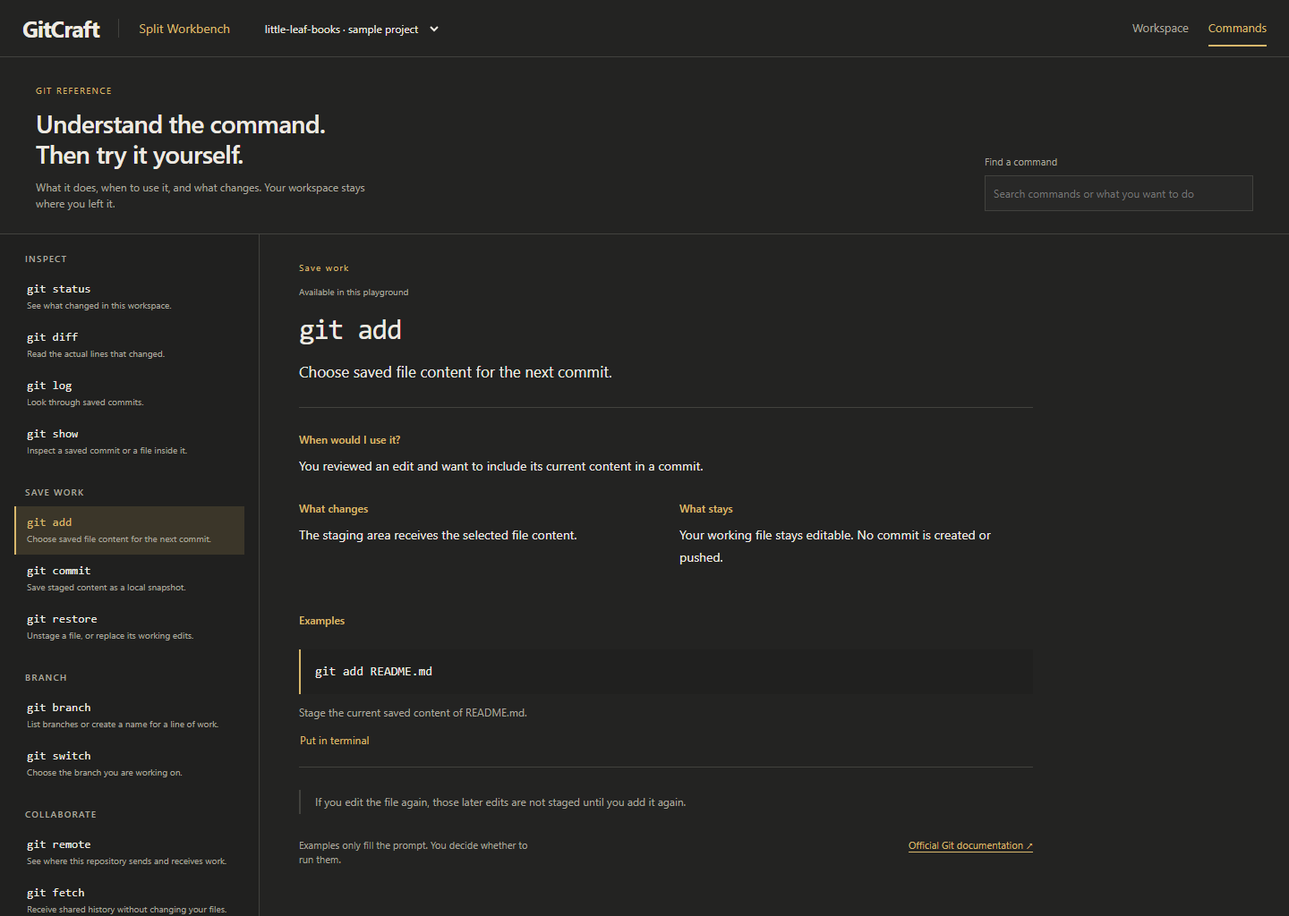
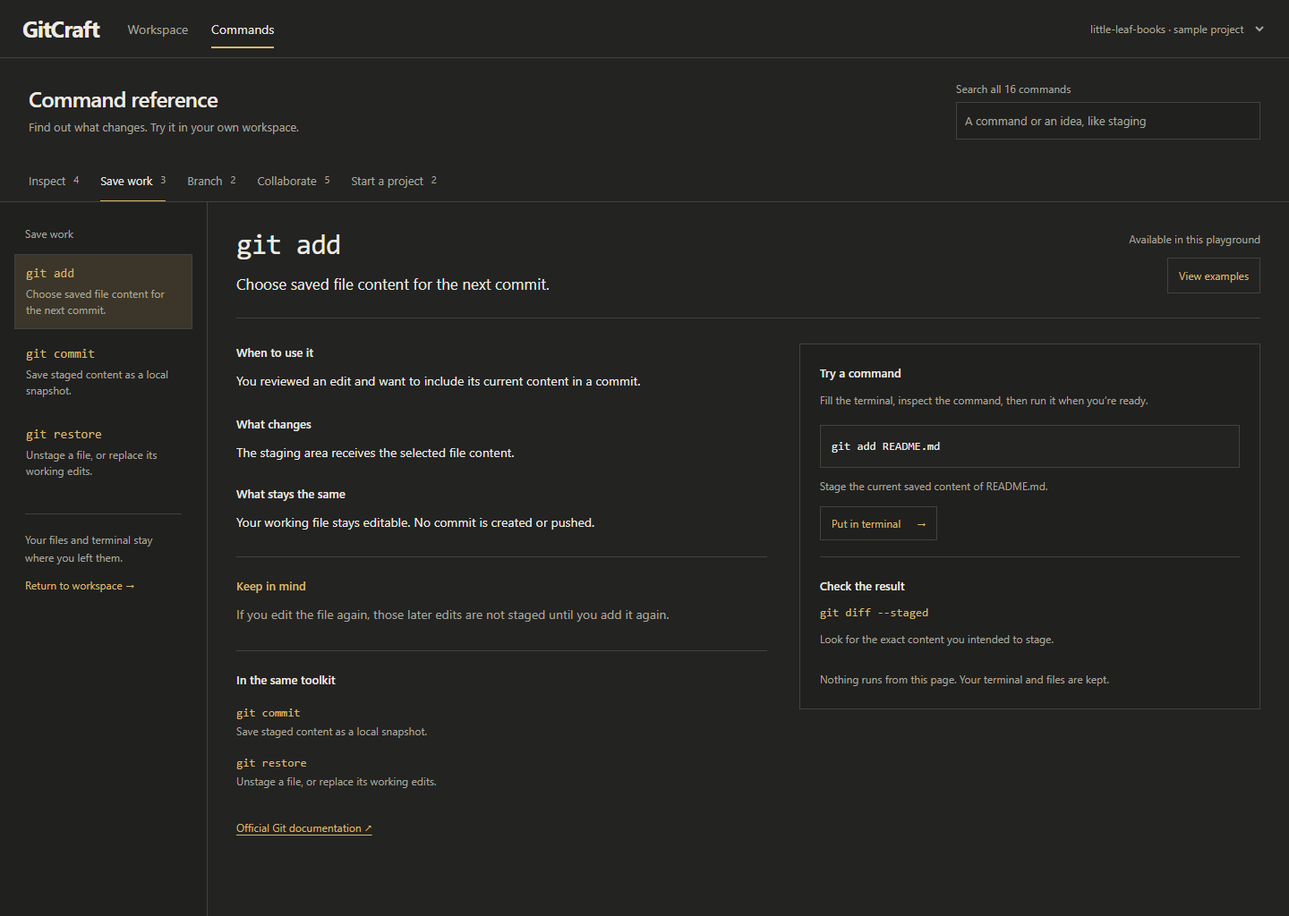
Improve command discovery and protect reference-only interactions

diff --git a/gitcraft/web/style.css b/gitcraft/web/style.css
@@ -12,7 +12,18 @@ body{margin:0;height:100dvh;overflow:hidden;display:flex;flex-direction:column;b
 #output{font-size:14px}.quick-edit button+button{margin-top:8px}
 @media(max-width:700px){.tool-rail button{font-size:10px}#output{font-size:12px}}
 @media(min-width:701px){#output{font-size:16px;line-height:1.8}#source,#line-numbers{font-size:14px;line-height:1.9}#command{font-size:15px}.file-tabs button{font-size:13px}.editor-tools button{font-size:12px}}
-/* A separate, instant command-reference view keeps learning out of the terminal. */
-.top-nav{display:flex;align-self:stretch;align-items:center;gap:22px;margin-left:auto;flex:none}.top-nav a{text-decoration:none;font-size:13px;color:var(--muted);padding:10px 0;border-bottom:2px solid transparent}.top-nav a[aria-current]{color:var(--accent);border-bottom-color:var(--accent)}.top-nav a:hover{color:var(--ink)}.commands-page{flex:1;min-height:0;overflow:hidden;display:flex;flex-direction:column}.reference-heading{display:flex;align-items:end;justify-content:space-between;gap:30px;padding:30px 40px 25px;border-bottom:1px solid var(--line);flex:none}.eyebrow{display:block;font-size:10px;letter-spacing:.13em;color:var(--accent);margin-bottom:12px}.reference-heading h1{font-size:28px;line-height:1.2;letter-spacing:-.025em;font-weight:500}.reference-heading p{font-size:12px;color:var(--muted);margin-top:12px;max-width:62ch}.command-search{display:grid;gap:7px;font-size:11px;color:var(--muted);width:300px;max-width:40%}.command-search input{font-size:12px;min-height:40px}.reference-layout{display:grid;grid-template-columns:290px minmax(0,1fr);flex:1;min-height:0}.command-list{overflow:auto;padding:20px 16px;border-right:1px solid var(--line);background:var(--canvas)}.reference-group{margin-bottom:22px}.reference-group h2{font-size:10px;text-transform:uppercase;letter-spacing:.12em;color:var(--muted);padding:0 12px;margin-bottom:8px}.reference-group a{display:block;text-decoration:none;padding:10px 12px;color:var(--ink);border-left:2px solid transparent}.reference-group a code{display:block;font:13px Consolas,monospace}.reference-group a span{display:block;font-size:10px;color:var(--muted);margin-top:4px}.reference-group a:hover{background:var(--surface)}.reference-group a[aria-current]{border-left-color:var(--accent);background:var(--soft);color:var(--accent)}.command-detail{overflow:auto;padding:30px 44px 45px;min-width:0}.command-detail>section,.reference-effects,.reference-note,.reference-bottom{max-width:820px}.reference-command-heading{position:relative;max-width:820px;padding-bottom:26px;border-bottom:1px solid var(--line);margin-bottom:26px}.reference-command-heading h2{font:32px/1.3 Consolas,monospace;letter-spacing:-.04em;margin:14px 0 12px}.reference-command-heading>p{font-size:17px;line-height:1.6;max-width:56ch}.reference-scope{display:block;font-size:10px;color:var(--muted)}.command-detail h3{font-size:12px;color:var(--accent);font-weight:600;margin-bottom:9px}.command-detail section>p{font-size:14px;line-height:1.75;color:var(--ink);max-width:65ch}.reference-effects{display:grid;grid-template-columns:1fr 1fr;gap:30px;padding:26px 0;margin:0 0 8px}.reference-examples{padding-top:15px}.reference-example{padding:15px 0;border-bottom:1px solid var(--line)}.reference-example pre{font:14px/1.7 Consolas,monospace;background:var(--canvas);padding:13px 16px;margin:0 0 10px;overflow:auto;border-left:2px solid var(--accent)}.reference-example p{font-size:12px;color:var(--muted);line-height:1.7;max-width:65ch}.reference-example button{margin-top:5px;padding-left:0;color:var(--accent)}.reference-note{font-size:12px;line-height:1.75;border-left:2px solid var(--line);padding:3px 0 3px 16px;color:var(--muted);margin-top:25px}.reference-bottom{margin-top:27px;display:flex;align-items:start;justify-content:space-between;gap:24px;font-size:11px;color:var(--muted)}.reference-bottom p{max-width:44ch}.reference-bottom a{white-space:nowrap}.reference-empty{font-size:12px;padding:12px;color:var(--muted)}.console-heading .command-timing{font:10px Consolas,monospace;color:var(--muted);white-space:nowrap;margin-left:auto}.console-heading #close-console{margin-left:0}
-@media(max-width:1100px){.console-heading .command-timing{display:block}.reference-heading{padding:25px}.reference-layout{grid-template-columns:240px minmax(0,1fr)}.command-detail{padding:25px}.reference-bottom{display:block}.reference-bottom a{display:block;margin-top:15px}.reference-effects{gap:20px}.top-nav{gap:15px}}
-@media(max-width:700px){.app-header{flex-wrap:wrap}.top-nav{width:100%;gap:23px;margin-left:0;border-top:1px solid var(--line);padding-top:4px}.top-nav a{font-size:12px;padding:5px 0}.reference-heading{padding:18px 16px;display:block}.reference-heading h1{font-size:22px}.reference-heading h1 br{display:none}.reference-heading p{font-size:11px;margin-top:8px}.command-search{max-width:100%;width:100%;margin-top:16px}.command-search input{font-size:11px;min-height:36px}.reference-heading .eyebrow{font-size:9px;margin-bottom:8px}.reference-layout{grid-template-columns:112px minmax(0,1fr)}.command-list{padding:17px 5px}.reference-group a{padding:9px 6px}.reference-group h2{font-size:8px;padding-inline:6px;letter-spacing:.02em}.reference-group a code{font-size:11px}.reference-group a span{display:none}.reference-group{margin-bottom:17px}.command-detail{padding:20px 14px 35px}.reference-command-heading{margin-bottom:20px;padding-bottom:19px}.reference-command-heading h2{font-size:25px;margin-block:10px}.reference-command-heading>p{font-size:14px}.reference-scope{font-size:9px}.command-detail section>p{font-size:12px}.reference-effects{grid-template-columns:1fr;gap:20px;padding-block:22px}.command-detail h3{font-size:11px}.reference-example pre{font-size:11px;padding:10px}.reference-example p,.reference-note{font-size:11px}.reference-bottom{font-size:10px}.reference-bottom a{white-space:normal}.reference-example button{font-size:10px}.console-heading .command-timing{font-size:9px}.console-heading{flex-wrap:wrap}.console-heading h2{margin-right:auto}.console-heading .command-timing{margin-left:0}}
+/* Product navigation stays in the same place across workspace and reference. */
+.app-header{gap:32px}.brand{border:0;padding-right:0}.top-nav{display:flex;align-self:stretch;align-items:center;gap:26px;flex:none}.top-nav a{position:relative;display:flex;align-items:center;align-self:stretch;min-height:44px;text-decoration:none;font-size:14px;color:var(--muted);transition:color 140ms ease}.top-nav a::after{content:'';position:absolute;bottom:0;left:0;right:0;height:2px;background:var(--accent);transform:scaleX(0);transition:transform 160ms ease}.top-nav a[aria-current]{color:var(--ink)}.top-nav a[aria-current]::after{transform:scaleX(1)}.top-nav a:hover{color:var(--ink)}.project-picker{margin-left:auto}.project-picker select{color:var(--muted)}
+.commands-page{flex:1;min-height:0;overflow:hidden;display:flex;flex-direction:column}.reference-heading{display:flex;align-items:center;justify-content:space-between;gap:24px;padding:25px 32px 23px;flex:none}.reference-heading h1{font-size:24px;line-height:1.3;letter-spacing:-.025em;font-weight:600}.reference-heading p{font-size:13px;color:var(--muted);margin-top:6px}.command-search{display:grid;gap:6px;font-size:12px;color:var(--muted);width:340px;max-width:45%}.command-search input{font-size:13px;min-height:42px;width:100%;background:var(--canvas)}
+.command-groups{display:flex;gap:24px;padding:0 32px;border-bottom:1px solid var(--line);flex:none;flex-wrap:wrap}.command-groups a{display:flex;gap:9px;align-items:center;min-height:46px;font-size:13px;text-decoration:none;color:var(--muted);border-bottom:1px solid transparent;transition:background 140ms ease,color 140ms ease}.command-groups a span{font-size:11px;color:var(--muted)}.command-groups a[aria-current]{border-bottom-color:var(--accent);color:var(--accent)}.command-groups a:hover{color:var(--ink)}
+.reference-layout{display:grid;grid-template-columns:232px minmax(0,1fr);flex:1;min-height:0}.command-sidebar{min-height:0;overflow:auto;padding:26px 16px;background:var(--canvas);border-right:1px solid var(--line)}#command-list-label{font-size:12px;color:var(--muted);padding:0 12px 14px}.command-list{display:grid;gap:6px}.command-list a{display:block;text-decoration:none;padding:12px;border:1px solid transparent;transition:background 140ms ease,border-color 140ms ease}.command-list a code{display:block;font:14px Consolas,monospace}.command-list a span{display:block;font-size:12px;color:var(--muted);line-height:1.5;margin-top:5px}.command-list a:hover{background:var(--surface)}.command-list a[aria-current]{border-color:var(--line);background:var(--soft);color:var(--accent)}.reference-return{border-top:1px solid var(--line);margin:26px 12px 0;padding-top:18px;font-size:12px;line-height:1.7;color:var(--muted)}.reference-return a{display:block;margin-top:10px;text-decoration:none}.reference-empty{padding:12px;font-size:13px;color:var(--muted)}
+.command-detail{overflow:auto;min-width:0;padding:28px 32px 40px;display:grid;grid-template-columns:minmax(0,1.15fr) minmax(290px,1fr);gap:28px 36px;align-content:start}.reference-command-heading{grid-column:1/-1;display:flex;align-items:start;gap:24px;justify-content:space-between;padding-bottom:24px;border-bottom:1px solid var(--line)}.reference-command-heading h2{font:32px/1.25 Consolas,monospace;letter-spacing:-.03em;margin:0 0 10px}.reference-command-heading p{font-size:17px;line-height:1.6;max-width:65ch}.reference-scope{flex:none;display:block;font-size:11px;padding:5px 9px;border:1px solid var(--line);color:var(--accent);margin-top:4px}.reference-only{color:var(--muted)}.reference-understand,.reference-practice{min-width:0}.command-detail h3{font-size:13px;font-weight:600;margin:0 0 10px}.command-detail section>p,.reference-note p{font-size:14px;line-height:1.75;max-width:65ch}.reference-effects{display:grid;gap:24px;margin-top:26px}.reference-note{padding-top:22px;margin-top:26px;border-top:1px solid var(--line);color:var(--muted)}.reference-note h3{color:var(--accent)}.reference-related{margin-top:28px;padding-top:22px;border-top:1px solid var(--line)}.reference-related a{display:block;text-decoration:none;font:13px Consolas,monospace;padding:9px 0}.reference-related a span{display:block;font:12px/1.6 'Segoe UI',system-ui,sans-serif;color:var(--muted);margin-top:4px}.reference-docs{display:inline-block;font-size:12px;margin-top:24px}.reference-practice{background:var(--canvas);padding:22px;align-self:start;border:1px solid var(--line)}.command-detail .reference-instruction{font-size:12px;line-height:1.7;color:var(--muted)}.reference-example{padding:18px 0;border-bottom:1px solid var(--line)}.reference-example pre{font:13px/1.7 Consolas,monospace;background:var(--bg);padding:12px;margin:0 0 10px;overflow:auto;border:1px solid var(--line)}.reference-example p{font-size:12px;color:var(--muted);line-height:1.7}.reference-example button{font-size:12px;margin-top:12px;min-height:38px;color:var(--accent);display:flex;gap:18px;align-items:center}.reference-check{padding-top:22px}.reference-check>code{display:block;font:13px/1.7 Consolas,monospace;color:var(--accent);overflow-wrap:anywhere;margin-bottom:8px}.command-detail .reference-check>p{font-size:12px;color:var(--muted);margin-top:8px}.reference-check .reference-instruction{padding-top:16px}.console-heading .command-timing{font:10px Consolas,monospace;color:var(--muted);white-space:nowrap;margin-left:auto}.console-heading #close-console{margin-left:0}
+@keyframes reference-enter{from{opacity:.65;transform:translateY(4px)}to{opacity:1;transform:translateY(0)}}.reference-command-heading,.reference-understand,.reference-practice{animation:reference-enter 180ms ease-out}button,a,input,select{transition:background-color 140ms ease,color 140ms ease,border-color 140ms ease}a:focus-visible{outline:2px solid var(--focus);outline-offset:3px}
+@media(max-width:1100px){.app-header{gap:24px}.reference-heading{padding:22px 24px}.command-groups{padding-inline:24px;gap:22px}.reference-layout{grid-template-columns:204px minmax(0,1fr)}.command-detail{padding:24px;gap:24px;grid-template-columns:minmax(0,1fr)}.reference-command-heading{grid-column:1}.reference-effects{grid-template-columns:1fr 1fr}.reference-command-heading p{font-size:16px}.console-heading .command-timing{display:block}}
+@media(max-width:700px){.app-header{flex-wrap:wrap;gap:0 24px;padding:0 16px}.brand{font-size:21px}.top-nav{gap:20px;min-height:54px;margin-left:auto}.top-nav a{font-size:13px}.project-picker{flex-basis:100%;margin-left:0;border-top:1px solid var(--line);padding:5px 0}.project-picker select{font-size:11px;width:auto;max-width:100%;min-height:28px}.commands-page{overflow:auto;display:block}.reference-heading{padding:22px 16px 16px;display:block}.reference-heading h1{font-size:22px}.reference-heading p{font-size:12px}.command-search{width:100%;max-width:100%;margin-top:18px}.command-groups{padding-inline:16px;gap:0 18px}.command-groups a{font-size:12px;min-height:44px;gap:5px}.reference-layout{display:block}.command-sidebar{border-right:0;border-bottom:1px solid var(--line);padding:16px;overflow:visible}#command-list-label{padding:0 0 10px}.command-list{display:flex;flex-wrap:wrap;gap:7px}.command-list a{padding:9px 11px;min-height:40px;border-color:var(--line)}.command-list a code{font-size:12px}.command-list a span,.reference-return{display:none}.reference-empty{padding:0}.command-detail{overflow:visible;display:flex;flex-direction:column;padding:24px 16px 32px;gap:24px}.reference-command-heading{display:block;order:0;padding-bottom:20px}.reference-command-heading h2{font-size:29px}.reference-command-heading p{font-size:16px}.reference-scope{display:inline-block;margin-top:15px}.reference-practice{order:2;width:100%;padding:18px}.reference-understand{order:1}.reference-effects{grid-template-columns:1fr;gap:22px}.command-detail section>p,.reference-note p{font-size:14px}.reference-example button{min-height:44px}.console-heading .command-timing{font-size:9px}.console-heading{flex-wrap:wrap}.console-heading h2{margin-right:auto}.console-heading .command-timing{margin-left:0}}
+@media(prefers-reduced-motion:reduce){*,*::after{animation:none!important;transition:none!important}}
+
+/* Council review: descriptive availability, real example navigation, stable reading order. */
+input::placeholder,textarea::placeholder{color:var(--muted);opacity:1}
+.reference-heading-actions{display:flex;flex-direction:column;align-items:flex-end;gap:12px;flex:none}.reference-heading-actions .reference-scope{padding:0;border:0;color:var(--muted);font-size:12px}.reference-heading-actions button{font-size:12px;min-height:40px;color:var(--accent)}.reference-search-note{padding:12px 32px;font-size:12px;color:var(--muted);border-bottom:1px solid var(--line);background:var(--canvas)}#reference-examples-heading{scroll-margin-top:20px}#reference-examples-heading:focus-visible{outline:2px solid var(--focus);outline-offset:5px}
+@media(max-width:700px){.reference-heading-actions{align-items:flex-start;margin-top:14px;gap:10px}.reference-heading-actions .reference-scope{margin-top:0}.reference-heading-actions button{min-height:44px}.reference-search-note{padding:12px 16px}}

diff --git a/gitcraft/web/app.js b/gitcraft/web/app.js
@@ -248,19 +248,47 @@ $('flow').addEventListener('click',event=>{if(event.target.closest('[data-flow]'
 $('project').addEventListener('change',async()=>{const result=await api('/api/switch',{mission:$('project').value});if(result){actor='you';snapshot=null;version='working';closeInspector();closeActionPanel();render();feedback('You opened another project. The previous project’s saved work is kept in this running session.');}else $('project').value=state.mission;});
 $('fullscreen').addEventListener('click',async()=>{try{if(document.fullscreenElement)await document.exitFullscreen();else await document.documentElement.requestFullscreen();}catch{feedback('The playground already fills this browser view. Your browser may not support entering full-screen mode here.');}});
 document.addEventListener('fullscreenchange',()=>{$('fullscreen').textContent=document.fullscreenElement?'Exit full screen':'Full screen';});
-document.addEventListener('keydown',event=>{if((event.ctrlKey||event.metaKey)&&event.key.toLowerCase()==='s'){event.preventDefault();if(!busy&&!view().bare&&!snapshot&&version==='working'&&hasDraft())saveContent($('source').value);}if(event.key==='Escape'){$('help-panel').hidden=true;$('help-toggle').setAttribute('aria-expanded','false');closeActionPanel();$('workspace').classList.remove('files-open');$('files-toggle').setAttribute('aria-expanded','false');}});
+document.addEventListener('keydown',event=>{if((event.ctrlKey||event.metaKey)&&event.key.toLowerCase()==='s'){event.preventDefault();if(!$('workspace').hidden&&state&&!busy&&!view().bare&&!snapshot&&version==='working'&&hasDraft())saveContent($('source').value);}if(event.key==='Escape'){$('help-panel').hidden=true;$('help-toggle').setAttribute('aria-expanded','false');closeActionPanel();$('workspace').classList.remove('files-open');$('files-toggle').setAttribute('aria-expanded','false');}});
 window.addEventListener('resize',()=>{if(state&&!$('history-panel').hidden)renderGraph();});
-function renderReference(){
+const referenceChecks={
+ status:['git diff','Read the changed lines behind the file names.'],
+ diff:['git diff --staged','Check staging separately before committing.'],
+ log:['git show HEAD','Inspect the latest commit in detail.'],
+ show:['git log --oneline','Find another commit to inspect.'],
+ add:['git diff --staged','Look for the exact content you intended to stage.'],
+ commit:['git log --oneline','Look for your message at the top of local history.'],
+ restore:['git status','Check which edits are still staged or unstaged.'],
+ branch:['git branch','The asterisk marks your current branch.'],
+ switch:['git status','Check the branch name before making another edit.'],
+ remote:['git remote -v','Inspect where this workspace sends and receives work.'],
+ fetch:['git log --oneline --graph --all','Compare local and remote-tracking branch labels.'],
+ merge:['git status','Check for a completed merge or files needing resolution.'],
+ push:['git status','Check local tracking information, then inspect Shared separately.'],
+ init:['git status','Confirm that Git recognizes the folder as a repository.'],
+ clone:['git status','Run this inside the cloned folder.'],
+ pull:['git status','Check the branch and any remaining work after integration.']
+};
+function renderReference({detail=true}={}){
  const selected=location.hash.split('/')[2]||'status';
  const entry=commandCatalog.find(command=>command.id===selected)||commandCatalog[0];
  const query=$('command-search').value.trim().toLowerCase();
- const matches=commandCatalog.filter(command=>{const text=[command.name,command.group,command.summary,command.when,command.changes,command.stays,command.note,...command.examples.flat()].join(' ').toLowerCase();return query.split(/\s+/).every(word=>text.includes(word));});
- const groups=[...new Set(matches.map(command=>command.group))];
- $('command-list').innerHTML=groups.map(group=>`<div class="reference-group"><h2>${esc(group)}</h2>${matches.filter(command=>command.group===group).map(command=>`<a href="#/commands/${command.id}" ${command.id===entry.id?'aria-current="page"':''}><code>${esc(command.name)}</code><span>${esc(command.summary)}</span></a>`).join('')}</div>`).join('')||'<p class="reference-empty" role="status">No matching commands. Try “stage”, “branch” or “share”.</p>';
- $('command-detail').innerHTML=`<div class="reference-command-heading"><span class="eyebrow">${esc(entry.group)}</span><span class="reference-scope">${entry.referenceOnly?'Real Git · reference only':'Available in this playground'}</span><h2 tabindex="-1">${esc(entry.name)}</h2><p>${esc(entry.summary)}</p></div><section><h3>When would I use it?</h3><p>${esc(entry.when)}</p></section><div class="reference-effects"><section><h3>What changes</h3><p>${esc(entry.changes)}</p></section><section><h3>What stays</h3><p>${esc(entry.stays)}</p></section></div><section class="reference-examples"><h3>Examples</h3>${entry.examples.map(([code,text],index)=>`<div class="reference-example"><pre><code>${esc(code)}</code></pre><p>${esc(text)}</p>${!entry.referenceOnly?`<button class="text-button" data-reference-example="${index}">Put in terminal</button>`:''}</div>`).join('')}</section>${entry.note?`<aside class="reference-note">${esc(entry.note)}</aside>`:''}<div class="reference-bottom"><p>${entry.referenceOnly?'The practice repositories are already set up. This command is explained here for your work with ordinary Git.':'Examples only fill the prompt. You decide whether to run them.'}</p><a href="${entry.docs}" target="_blank" rel="noopener noreferrer">Official Git documentation ↗</a></div>`;
+ const allGroups=[...new Set(commandCatalog.map(command=>command.group))];
+ $('command-groups').innerHTML=allGroups.map(group=>{const first=commandCatalog.find(command=>command.group===group);return `<a href="#/commands/${first.id}" ${!query&&group===entry.group?'aria-current="true"':''}>${esc(group)}<span>${commandCatalog.filter(command=>command.group===group).length}</span></a>`;}).join('');
+ const matches=commandCatalog.filter(command=>{if(!query)return command.group===entry.group;const text=[command.name,command.group,command.summary,command.when,command.changes,command.stays,command.note,...command.examples.flat()].join(' ').toLowerCase();return query.split(/\s+/).every(word=>text.includes(word));});
+ $('command-list-label').textContent=query?`${matches.length} ${matches.length===1?'match':'matches'}. Choose a command to read.`:entry.group;
+ $('reference-search-note').hidden=!query;
+ $('reference-search-note').textContent=query?`Showing ${entry.name} below. Choose a search result to open a different command.`:'';
+ $('command-list').innerHTML=matches.map(command=>`<a href="#/commands/${command.id}" ${command.id===entry.id?'aria-current="page"':''}><code>${esc(command.name)}</code><span>${esc(command.summary)}</span></a>`).join('')||'<p class="reference-empty" role="status">No matching commands. Try “stage”, “branch” or “share”.</p><button id="clear-command-search">Clear search</button>';
+ $('clear-command-search')?.addEventListener('click',()=>{$('command-search').value='';renderReference();$('command-search').focus();});
+ if(!detail&&$('command-detail').hasChildNodes())return;
+ const check=referenceChecks[entry.id];
+ const related=commandCatalog.filter(command=>command.group===entry.group&&command.id!==entry.id);
+ $('command-detail').innerHTML=`<header class="reference-command-heading"><div><h2 tabindex="-1">${esc(entry.name)}</h2><p>${esc(entry.summary)}</p></div><div class="reference-heading-actions"><span class="reference-scope">${entry.referenceOnly?'Reference only · outside this playground':'Available in this playground'}</span><button id="reference-examples-jump">${entry.referenceOnly?'View syntax':'View examples'}</button></div></header><div class="reference-understand"><section><h3>When to use it</h3><p>${esc(entry.when)}</p></section><div class="reference-effects"><section><h3>What changes</h3><p>${esc(entry.changes)}</p></section><section><h3>What stays the same</h3><p>${esc(entry.stays)}</p></section></div>${entry.note?`<aside class="reference-note"><h3>Keep in mind</h3><p>${esc(entry.note)}</p></aside>`:''}<section class="reference-related"><h3>In the same toolkit</h3>${related.map(command=>`<a href="#/commands/${command.id}">${esc(command.name)}<span>${esc(command.summary)}</span></a>`).join('')}</section><a class="reference-docs" href="${entry.docs}" target="_blank" rel="noopener noreferrer">Official Git documentation ↗</a></div><div class="reference-practice"><section class="reference-examples"><h3 id="reference-examples-heading" tabindex="-1">${entry.referenceOnly?'Syntax for real Git':'Try a command'}</h3><p class="reference-instruction">${entry.referenceOnly?'Read here; use this in an ordinary Git repository.':'Fill the terminal, inspect the command, then run it when you’re ready.'}</p>${entry.examples.map(([code,text],index)=>`<div class="reference-example"><pre><code>${esc(code)}</code></pre><p>${esc(text)}</p>${!entry.referenceOnly?`<button data-reference-example="${index}">Put in terminal <span aria-hidden="true">→</span></button>`:''}</div>`).join('')}</section><section class="reference-check"><h3>Check the result</h3><code>${esc(check[0])}</code><p>${esc(check[1])}</p><p class="reference-instruction">${entry.referenceOnly?'The practice repositories are already set up. This command is reference-only here.':'Nothing runs from this page. Your terminal and files are kept.'}</p></section></div>`;
+ $('reference-examples-jump').addEventListener('click',()=>{$('reference-examples-heading').focus({preventScroll:true});$('reference-examples-heading').scrollIntoView({block:'start'});});
  document.querySelectorAll('[data-reference-example]').forEach(button=>{button.disabled=!state||busy||view().bare;button.addEventListener('click',()=>{const code=entry.examples[Number(button.dataset.referenceExample)][0];location.hash='/workspace';suggestCommand(code);});});
  if(state&&view().bare&&!entry.referenceOnly)$('command-detail').insertAdjacentHTML('beforeend','<p class="reference-note">Choose Your workspace or Sam’s workspace before trying a command. Shared has no working folder.</p>');
 }
+$('command-groups').addEventListener('click',event=>{if(event.target.closest('a')){$('command-search').value='';renderReference();}});
 function showPage(focus=false){
  const reference=location.hash.startsWith('#/commands');
  if(reference)closeActionPanel();
@@ -270,8 +298,10 @@ function showPage(focus=false){
  if(reference){$('guide-toggle').setAttribute('aria-current','page');renderReference();if(focus)$('command-detail').querySelector('h2').focus();}
  else{$('nav-workspace').setAttribute('aria-current','page');if(focus&&state)$('command').focus();}
  document.title=reference?'GitCraft | Commands':'GitCraft | Split Workbench';
+ document.querySelector('.skip').textContent=reference?'Skip to command explanation':'Skip to the terminal';
 }
-$('command-search').addEventListener('input',renderReference);
+document.querySelector('.skip').addEventListener('click',event=>{event.preventDefault();(location.hash.startsWith('#/commands')?$('command-detail').querySelector('h2'):$('command')).focus();});
+$('command-search').addEventListener('input',()=>renderReference({detail:false}));
 window.addEventListener('hashchange',()=>showPage(true));
 showPage();
 const initial=await api('/api/state');

diff --git a/gitcraft/web/index.html b/gitcraft/web/index.html
@@ -3,7 +3,7 @@
 <head><meta charset="utf-8"><meta name="viewport" content="width=device-width,initial-scale=1"><title>GitCraft | Project workspace</title><link rel="stylesheet" href="/style.css"><script type="module" src="/app.js"></script></head>
 <body>
  <a class="skip" href="#command">Skip to the terminal</a>
- <header class="app-header"><a class="brand" href="/">GitCraft<span>Split Workbench</span></a><label class="project-picker"><span class="sr-only">Project</span><select id="project"><option value="playground">little-leaf-books · sample project</option></select></label><nav class="top-nav" aria-label="Main navigation"><a id="nav-workspace" href="#/workspace" aria-current="page">Workspace</a><a id="guide-toggle" href="#/commands">Commands</a></nav></header>
+ <header class="app-header"><a class="brand" href="#/workspace" aria-label="GitCraft workspace">GitCraft</a><nav class="top-nav" aria-label="Main navigation"><a id="nav-workspace" href="#/workspace" aria-current="page">Workspace</a><a id="guide-toggle" href="#/commands">Commands</a></nav><label class="project-picker"><span class="sr-only">Project</span><select id="project"><option value="playground">little-leaf-books · sample project</option></select></label></header>
  <div class="workspace-bar"><div id="actors" role="group" aria-label="Active workspace"><button data-actor="you" aria-pressed="true">Your workspace</button><button data-actor="sam" aria-pressed="false">Sam’s workspace</button><button data-actor="origin" aria-pressed="false">Shared</button></div><span id="workspace-note">Your files. Your changes.</span></div>
  <main id="workspace" aria-busy="true">
 <nav class="tool-rail" aria-label="Workspace tools"><span class="rail-label">WORKSPACE</span><button id="files-toggle" aria-expanded="false">Files</button><button id="undo" disabled>Undo</button><button id="history-toggle" aria-expanded="false">History</button><button id="help-toggle" aria-expanded="false">Help</button><button id="fullscreen">Full screen</button><span class="rail-label">GIT TOOLS</span><button id="new-branch">New branch</button><button id="share-toggle" aria-expanded="false">Exchange</button><span class="rail-foot">Local practice<br>Nothing runs for you.</span></nav>
@@ -24,8 +24,10 @@ This runs real Git in your local practice repository. Nothing runs until you sub
  <div class="project-actions"><label><span class="sr-only">Current branch</span><select id="branch"></select></label><span>Work locally. Share when you choose.</span></div><div id="action-panel" class="action-panel workspace-action" hidden></div>
 
  <main id="commands-page" class="commands-page" aria-labelledby="commands-heading" hidden>
-  <div class="reference-heading"><div><span class="eyebrow">GIT REFERENCE</span><h1 id="commands-heading" tabindex="-1">Understand the command.<br> Then try it yourself.</h1><p>What it does, when to use it, and what changes. Your workspace stays where you left it.</p></div><label class="command-search"><span>Find a command</span><input id="command-search" type="search" placeholder="Search commands or what you want to do" autocomplete="off"></label></div>
-  <div class="reference-layout"><nav id="command-list" class="command-list" aria-label="Git command reference"></nav><article id="command-detail" class="command-detail"></article></div>
+  <div class="reference-heading"><div><h1 id="commands-heading" tabindex="-1">Command reference</h1><p>Find out what changes. Try it in your own workspace.</p></div><label class="command-search"><span>Search all 16 commands</span><input id="command-search" type="search" placeholder="A command or an idea, like staging" autocomplete="off"></label></div>
+  <nav id="command-groups" class="command-groups" aria-label="Browse commands by purpose"></nav>
+  <p id="reference-search-note" class="reference-search-note" hidden></p>
+  <div class="reference-layout"><aside class="command-sidebar"><p id="command-list-label" role="status" aria-live="polite" aria-atomic="true"></p><nav id="command-list" class="command-list" aria-labelledby="command-list-label"></nav><p class="reference-return">Your files and terminal stay where you left them.<a href="#/workspace">Return to workspace →</a></p></aside><article id="command-detail" class="command-detail"></article></div>
  </main>
  <footer class="status-bar"><div id="feedback" role="status" aria-live="polite">Open a file and make it your own. Type git status to inspect this repository.</div><button id="console-toggle" class="text-button">Focus terminal</button></footer>
 </body>

diff --git a/DESIGN_REVIEW.md b/DESIGN_REVIEW.md
@@ -35,3 +35,31 @@ Implemented the user-selected side-by-side format with a tools sidebar and thin 
 
 ## Commands reference
 Commands now opens a dedicated page from the top navigation. The page explains 16 commands, supports purpose-based search, links official documentation and offers explicit prompt-only examples for commands supported by the playground. Route changes stay client-side and keep drafts and transcript. Browser verification passed in an isolated headless instance without touching Brave; see design-qa.md for checks and screenshots.
+
+## Design-skill research and council — 3 November 2026
+
+Decision: retain the revised global navigation, purpose groups, contextual command list, desktop explanation/practice split and selected theme. Revise concrete interaction defects. Use frontend-standards as coordinator, Impeccable for product refinement, product-design-quality for context and rendered verification, and Vercel Web Interface Guidelines for checks. Do not activate or globally install another skill for this task.
+
+Criteria were set before proposals: beginner task clarity; accessibility/navigation; native Git truth and preservation; compatibility with the vanilla buildless stack; incremental capability versus overlap; update safety/maintenance; effort. Three fresh independent planner contexts reviewed the same brief read-only, followed by one round of anonymized peer review. All used the inherited model; no model diversity or guaranteed blindness is claimed.
+
+| Candidate | Current source versus installed | Decision for GitCraft |
+| --- | --- | --- |
+| [Impeccable](https://github.com/pbakaus/impeccable/blob/9fadc41729c38fd47d7ae622b501558653f9d2e9/.agents/skills/impeccable/SKILL.md) | Upstream 4.8.0; installed 4.5.0. Current language strengthens Operate/Read restraint; installed already provides those modes and brief precedence. | Best existing primary design workflow. No specific missing capability established by updating. |
+| [Taste](https://github.com/Leonxlnx/taste-skill/blob/12af471f627f866411b4bd785b19646d3672784c/skills/taste-skill/SKILL.md) | Installed payload excludes product UI. Upstream now has a separate [app-screen workflow](https://github.com/Leonxlnx/taste-skill/blob/12af471f627f866411b4bd785b19646d3672784c/skills/taste-skill/references/app-screens.md), style selection and browser inspector. | Meaningful scope expansion, but overlaps existing guidance. Its author-reported desktop studies do not establish beginner/mobile Git usability. No update activated. |
+| [Anthropic frontend-design](https://github.com/anthropics/skills/blob/ca45fc496a3436251f191354091d557da31c15b5/skills/frontend-design/SKILL.md) | Not installed separately; current source emphasizes intentional brief-specific visual choices and purposeful motion. | Useful alternative; no uncovered capability beyond the installed product workflow. |
+| [Vercel Web Interface Guidelines](https://github.com/vercel-labs/web-interface-guidelines/blob/main/command.md) | Installed 1.0.0 wrapper deliberately fetches the latest checklist. Fresh rules read for this review. | Use the installed wrapper for semantics, focus, forms, motion and overflow. React-specific skills do not fit this vanilla app. |
+| [UI UX Pro Max](https://github.com/nextlevelbuilder/ui-ux-pro-max-skill) | Not installed. Searchable local UX/style/stack guidance and Python tooling. | A broader research catalog is not this build's demonstrated gap. Avoid additional overlapping guidance and tooling maintenance. |
+
+This is a fit comparison, not a universal ranking or controlled benchmark of skill quality. Repository stars and catalog size were not decision criteria. Exact Impeccable and Taste revisions above were downloaded with the system skill-installer into ignored artifacts/skill-review staging folders. Installed/global skills and hooks were untouched; staged scripts were not executed. The review found broad reference/script changes, so these are not silently promoted as safe or beneficial upgrades.
+
+Proposal A emphasized availability copy, mobile content order, tablet order and search announcements. B prioritized the hidden-route save bug, a real examples control and search semantics. C emphasized mobile practice access, tablet source/visual order and source freshness. Peer rankings were B/C/A, B/A/C and B/C/A; reviewers recognized their own proposals. The chairman selected B because it protects learner-authored files, incorporating C's tablet-order correction and A/C's mobile-access guidance. The only material difference was how much mobile content to reorder: a nearby focus-moving examples control was the smaller supported change.
+
+Confirmed and corrected findings:
+
+- app.js:251 — Ctrl/Cmd+S could request a save of the hidden workspace draft from Commands. Reproduction intercepted and aborted one save request, preserving native files. The shortcut is now gated by visible Workspace and initialized state.
+- app.js:286 — action-looking inert availability span replaced with descriptive text and a real View examples/View syntax control, focusing the relevant heading without route change or execution.
+- style.css — removed the intermediate-width CSS reordering that disagreed with DOM traversal. Mobile and tablet follow the source reading sequence.
+- app.js:278 — search results announce counts politely and distinguish the retained command from matches. Typing does not navigate, select a command, replace detail DOM or restart its animation.
+- style.css — default search placeholder measured 3.54:1. Theme-muted text replaces the browser default; representative placeholder and secondary-text ratios now pass 4.5:1.
+
+Validation is bounded to rendered desktop/mobile inspection plus tablet/320px reflow and interaction checks, not a complete accessibility certification. No screen-reader session, actual 200% browser zoom test or learner efficacy study was performed. Search/group navigation should still be observed with beginners before broader redesign. A reproducible failure to discover commands or transfer to real Git would justify revisiting this decision.

diff --git a/DESIGN.md b/DESIGN.md
@@ -1,9 +1,19 @@
 # GitCraft presentation: Split Workbench
 
-The user selected the Split Workbench image and requested a tools sidebar and thinner square scrollbars. The desktop app now uses a narrow tools rail, file tabs and editor on the left, and a larger persistent native-Git terminal on the right. Help, History, Files, Commands and exchange tools are disclosed from the rail. Command helpers only suggest text; Enter/Run is required. On narrow screens the editor sits above the terminal and the rail stays accessible. Terminal focus can hide the editor.
+The user selected the Split Workbench image and requested a tools sidebar and thinner square scrollbars. The desktop app uses a narrow tools rail, file tabs and editor on the left, and a larger persistent native-Git terminal on the right. Help, History, Files and exchange tools are disclosed from the rail. Workspace and Commands are persistent top-level navigation beside the brand. Command helpers only suggest text; Enter/Run is required. On narrow screens the editor sits above the terminal and the rail stays accessible. Terminal focus can hide the editor.
 
 Selected source: artifacts/split-workbench-reference.png. Charcoal/zinc/ivory with muted amber actions follows that selected image; no final global restriction on later themes. Keel, Quarry and Signal Console remain earlier named references whose actual artwork was not supplied. No invented fidelity to those themes is claimed.
 
 All app overflow uses 5px square-corner scrollbars in Chromium with theme colours; Firefox uses its native thin scrollbar styling. Forced-colour mode retains platform accessibility. System sans typography and monospace file/terminal content preserve the buildless stack. Native Git state and existing learner-authored content remain authoritative.
 
 The main learning loop remains inspect → edit/save → diff → stage → commit → share, without gates or automatic task completion. Explanation, native output and the repository's actual state provide feedback. A site preview is optional through Files. Desktop/mobile screenshots and interaction verification are recorded in design-qa.md.
+
+## Command reference revision — 3 November 2026
+
+Replace the oversized introduction and all-command sidebar with a compact heading, search across the full catalog, five purpose links and a short list for the selected purpose. Selected command, purpose and global page each have distinct current-location styling. These are ordinary navigation links with native keyboard behavior, not ARIA tabs. Desktop explanations and practice examples share the available width; mobile uses one page scroll and wrapping command links. Search results span all purposes; choosing a purpose clears search. Examples fill the terminal without executing. Each command includes a suggested inspection command and what to look for. These descriptions are reference material, not live results.
+
+Use existing frontend-standards, product-design-quality and Impeccable guidance. The installed Taste payload targets marketing surfaces; current upstream also offers a separate app-screen workflow. No additional overlapping skill or animation dependency was needed. Native CSS transitions take 140–180ms and respect reduced motion. Retain the selected theme, 5px square scrollbars and native Git behavior.
+
+Research: [Primer underline navigation](https://primer.style/product/components/underline-nav/) supports navigation between related views; [NN/g progressive disclosure](https://www.nngroup.com/articles/progressive-disclosure/) supports keeping secondary detail available without displaying everything at once; [NN/g menu design](https://www.nngroup.com/articles/menu-design/) supports visible navigation and clear current location. The official [Impeccable](https://github.com/pbakaus/impeccable) and [Taste Skill](https://github.com/Leonxlnx/taste-skill) sources were reviewed before choosing the installed guidance. These principles inform the design; learner preference and learning effectiveness still need direct testing.
+
+Council follow-up: retain this structure and selected theme. Availability is plain text; View examples is a genuine control that moves focus to the examples without changing route or executing. Keep tablet visual order consistent with source order. Search announces counts and identifies the retained detail without automatically selecting a result; typing does not rebuild or animate that detail. Save shortcuts operate only while Workspace is visible. Placeholder text uses the theme's muted foreground for readable contrast. See DESIGN_REVIEW.md for the source comparison and council decision.

diff --git a/design-qa.md b/design-qa.md
@@ -38,3 +38,17 @@ final result: passed
 - Existing 12 JavaScript checks pass. No new backend behavior was required for the reference page.
 
 Commands page result: passed.
+
+## Navigation and command discovery revision — 3 November 2026
+
+Inspected the incumbent screenshot before editing. The all-catalog sidebar competed with the detail page, and a tall introduction plus a single content column wasted desktop space. The revision uses purpose navigation, a short contextual list, and side-by-side explanation/practice on wide screens. The reference has a single page scroll on mobile, wrapping command links and persistent global navigation.
+
+Updated rendered evidence: artifacts/commands-page-desktop.png (1440×1024) and artifacts/commands-page-mobile.png (390×844). Both were visually inspected; isolated workspace captures also checked the shared header and mobile terminal. Verified 820px intermediate layout. No Brave session was accessed.
+
+Headless interaction checks passed: all 16 commands reachable through search; purpose navigation; no-results and recovery; deep links/reload; unchanged native repository state; draft and transcript preservation; suggestions never execute; reference-only commands unavailable to run; keyboard skip link targets the current page; reduced-motion animation disabled; no horizontal page overflow at tested sizes; no JavaScript errors. Reference browsing made zero API requests. Native git status completed in 227ms in this run, including browser round trip; this is a local measurement, not a latency guarantee. All 12 existing JavaScript tests passed. Backend was unchanged. Native link keyboard behavior and visible focus were retained; no claim of a complete accessibility audit or learner validation.
+
+## Council follow-up verification — 3 November 2026
+
+Reproduced Ctrl/Cmd+S from Commands with an unsaved draft by intercepting and aborting the save request; one request proved the defect without modifying native files. After the route guard, Control+S and Meta+S generated zero saves on Commands. Workspace Control+S still requested a save; that request was aborted for this test as well. Browsing and command suggestions retained zero API requests and unchanged native repository views.
+
+The isolated browser pass also covered a real examples jump/focus, live search count, retained-detail wording and no automatic command selection, reference-only and Shared restrictions, draft/transcript retention, reduced motion, consistent tablet source/visual order, 1440px desktop, 820px tablet, 390px mobile and 320px reflow, and no page overflow or JavaScript errors. Representative placeholder and secondary text pass 4.5:1 contrast after correcting the browser-default 3.54:1 placeholder. Updated desktop/mobile captures were visually inspected. All 12 JavaScript tests passed. Final native status round trip was 294ms; this is not a latency guarantee. Brave and learner files remained untouched. No full assistive-technology audit, actual browser zoom session or learner study was performed.
